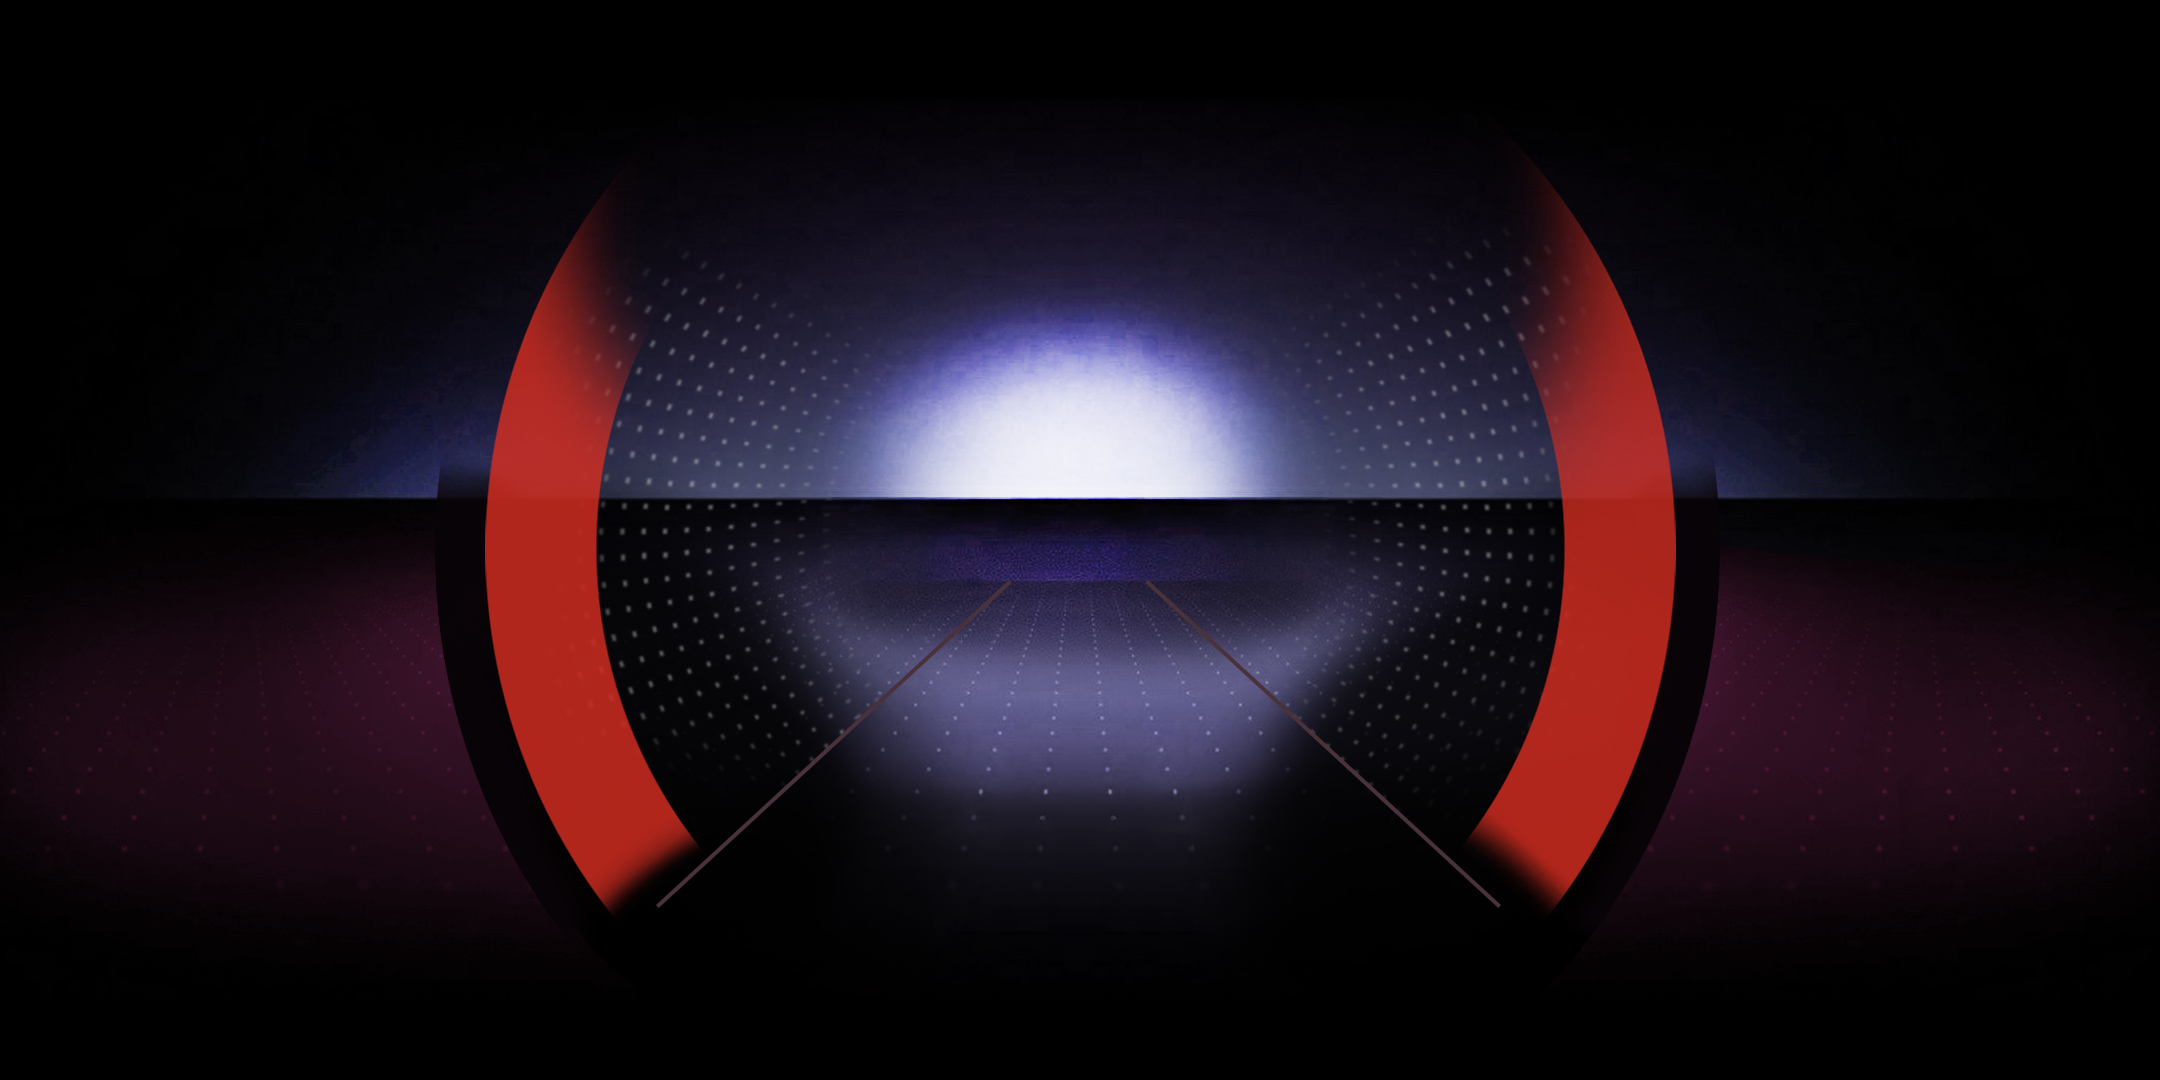
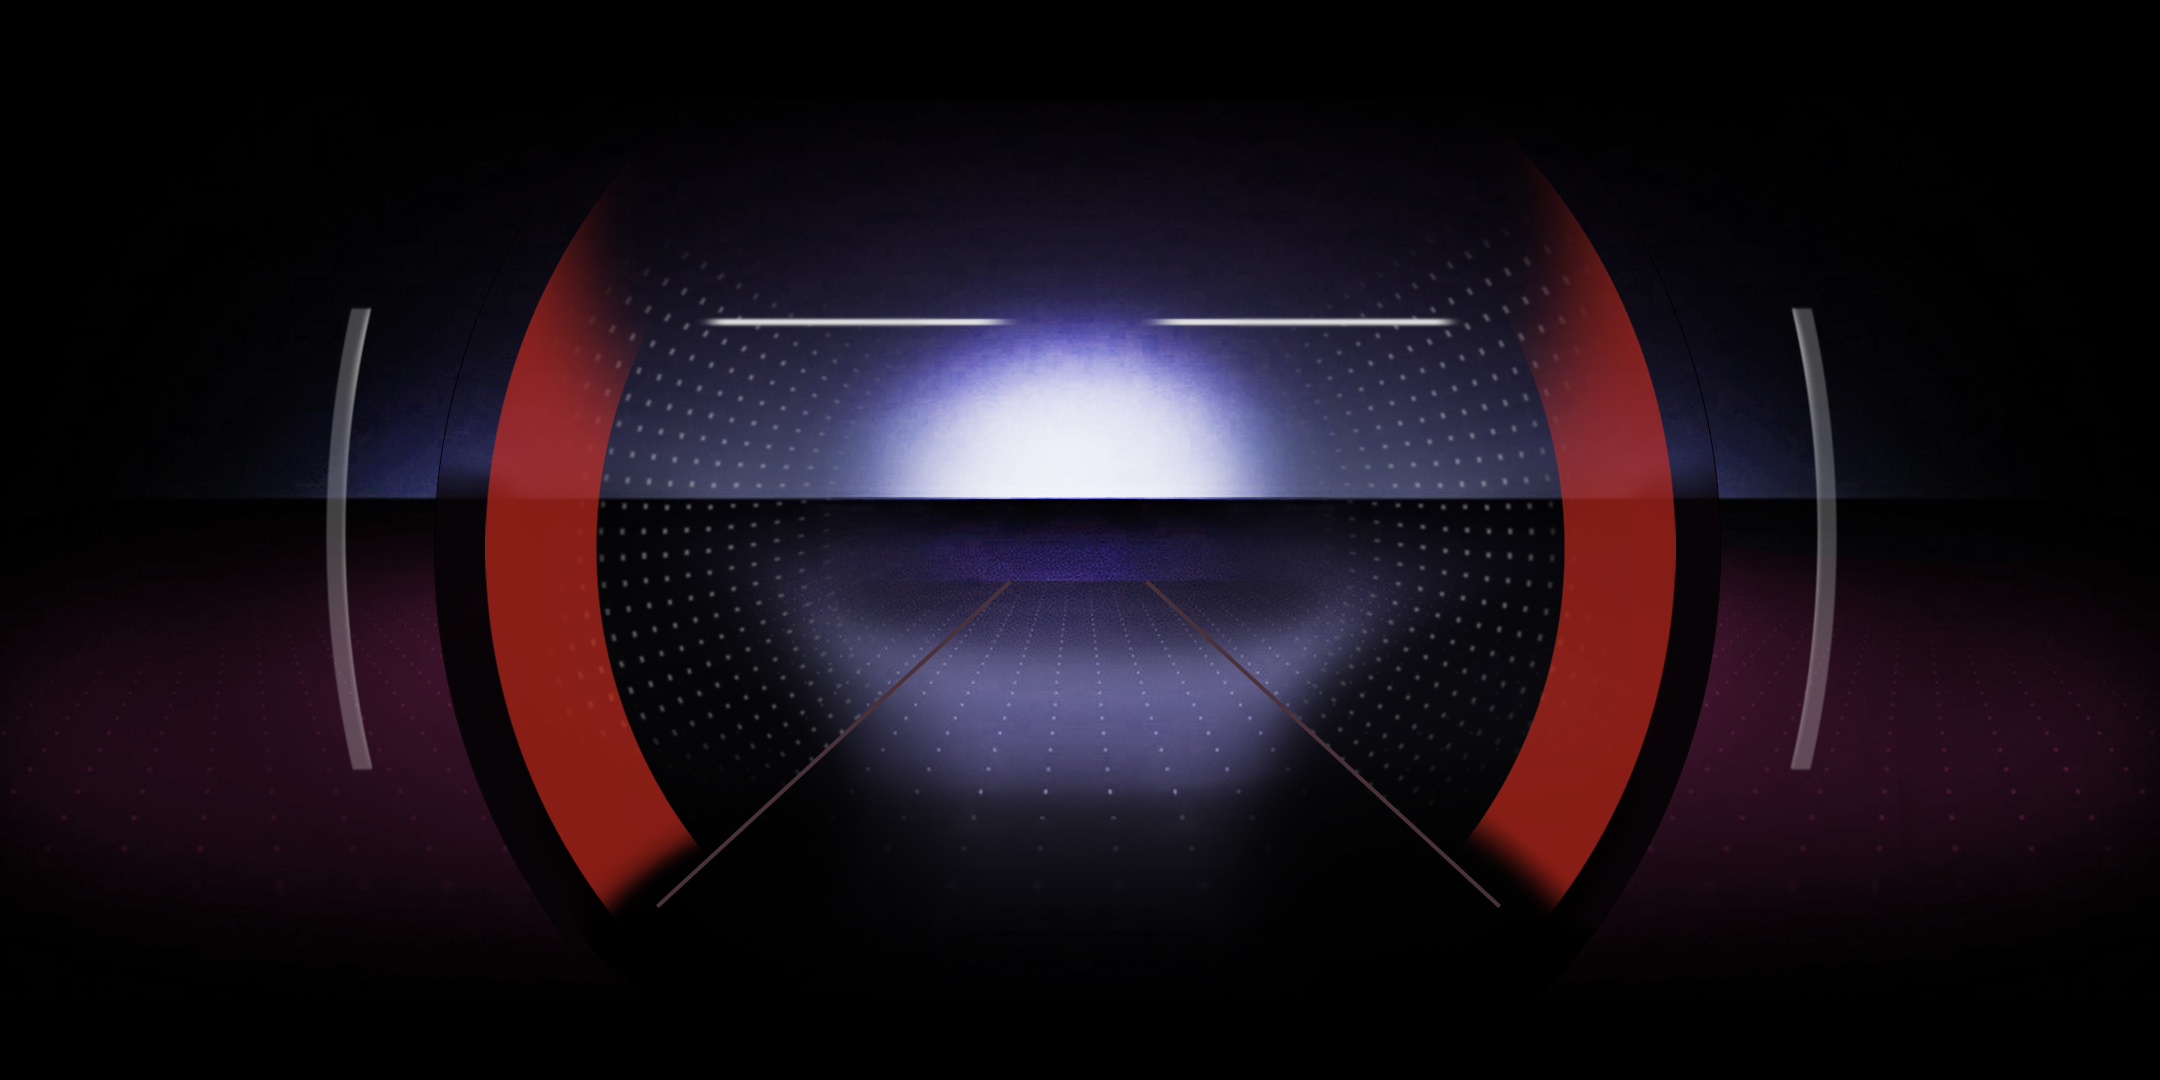
add side gauges

diff --git a/android/app/src/main/java/org/prowl/torquescan/MyReactActivity.java b/android/app/src/main/java/org/prowl/torquescan/MyReactActivity.java
@@ -174,7 +174,7 @@ public class MyReactActivity extends Activity implements DefaultHardwareBackBtnH
         updatedProps.putInt("counter", counter);
         String[] pids = {"0c", "0d"};
         boolean isConnected = false;
-        double[] value = {300};
+        double[] value = {300, 30};
         Log.d("Main", String.valueOf(torqueService));
 
         try {
